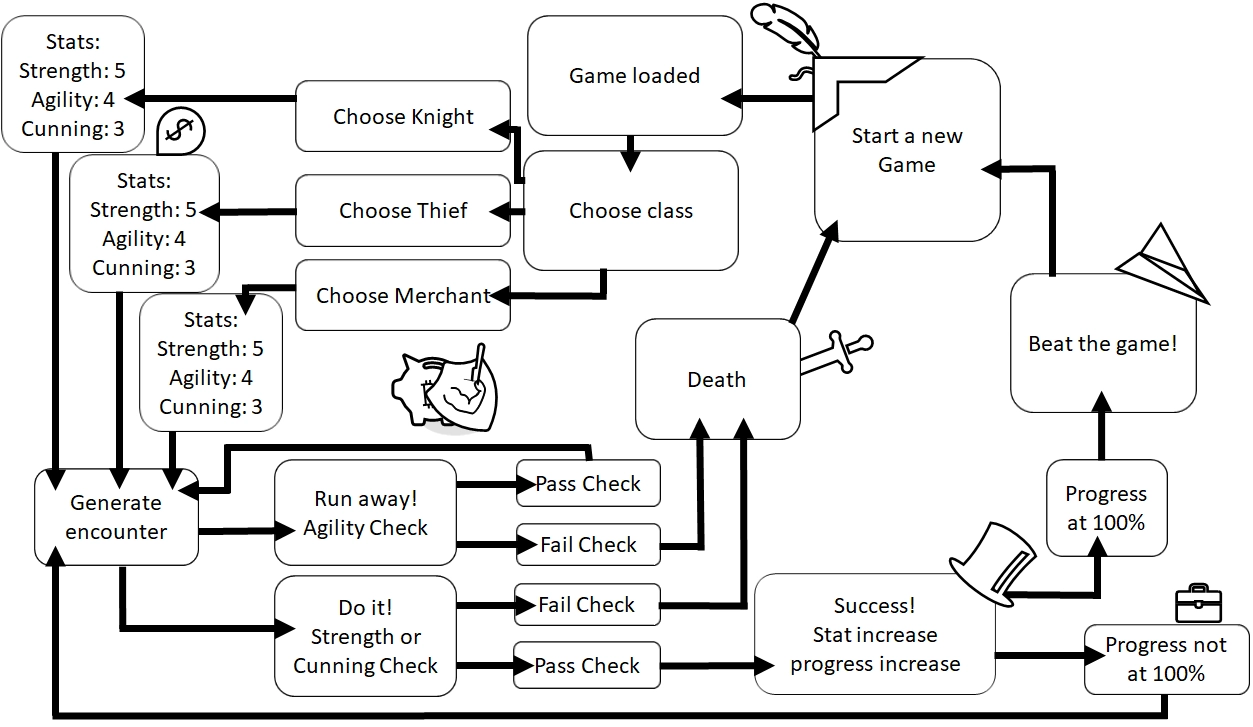
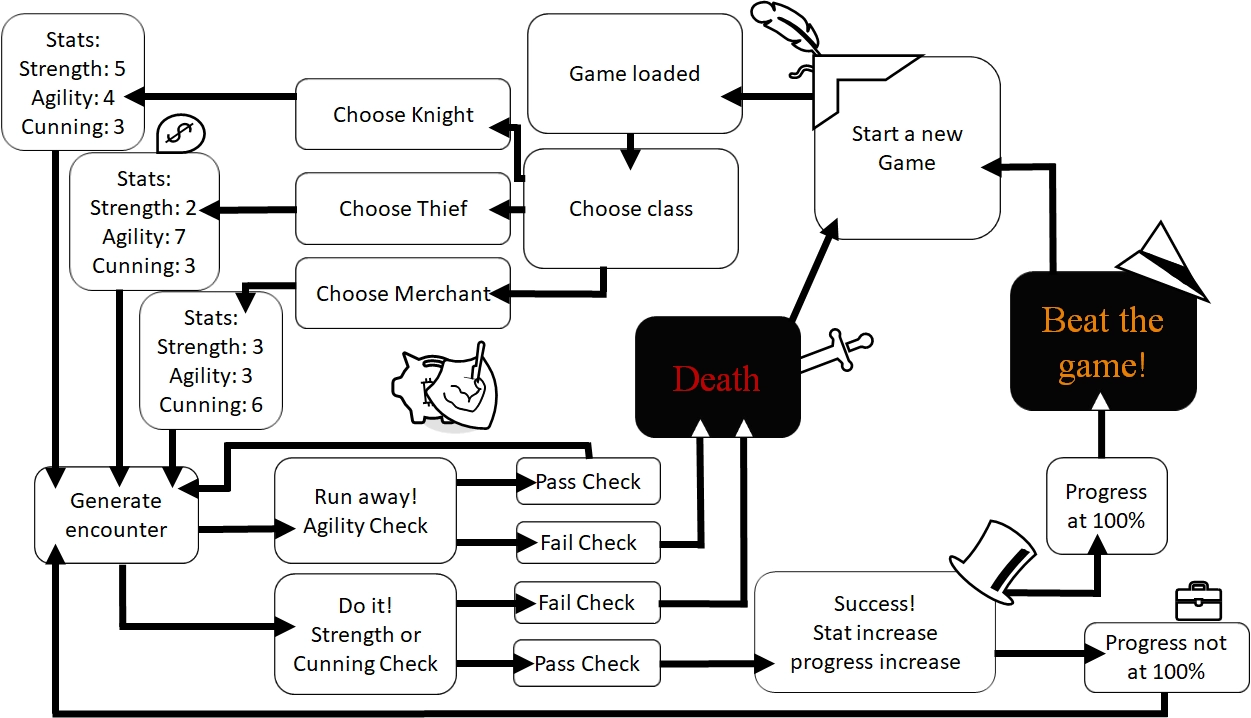
readme: update flowchart

diff --git a/README.md b/README.md
@@ -640,3 +640,15 @@ The site is deployed on GitHub Pages, the following steps can be replicated to a
 7. Once the page has been deployed you will be able to see it on the right-hand side of the main repo page.
 8. You can click into the deployment page and then click "view deployment" to get the deployed link.
 ![Gif demonstrating the above steps](assets/images/readme-images/GitHub-deployment.gif)
+
+
+# Credits
+## Troubleshooting sources
+- [stack overflow](https://stackoverflow.com/)
+- [Bobby Hadz](https://bobbyhadz.com/blog/javascript-change-style-of-all-elements-with-class)
+- [w3schools](https://www.w3schools.com/js/default.asp)
+- [MDN Web Docs](https://developer.mozilla.org/en-US/docs/Web/API/Touch_events?fbclid=IwAR2w2PfZG7e7IHm1pGNPlkc-Nz0eJEo1P6i27eAJ4_4DYdS0LLzCD4nHbSc)
+- Seun Owonikoko: Project Mentor
+
+# Acknowledgements
+
